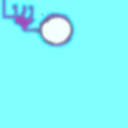
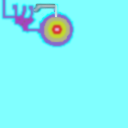
Added Watch Out Platoue

diff --git a/Escape/game/game.cpp b/Escape/game/game.cpp
@@ -25,7 +25,7 @@ Game::Game(GLuint pWidth, GLuint pHeight, const char* pWindowTitle)
 	
 
 	// Create a GLFWwindow object that we can use for GLFW's functions
-	setWindow(glfwCreateWindow(getWidth(), getHeight(), getTitle(),glfwGetPrimaryMonitor(),NULL));
+	setWindow(glfwCreateWindow(getWidth(), getHeight(), getTitle(), glfwGetPrimaryMonitor(),NULL));
 	glfwMakeContextCurrent(this->getWindow());
 
 
@@ -53,7 +53,11 @@ Game::Game(GLuint pWidth, GLuint pHeight, const char* pWindowTitle)
 	glEnable(GL_CULL_FACE);
 	glCullFace(GL_BACK);
 
-	mPlayer = new Player(glm::vec3(78, 0, 61), 1, "Hans Dieter", this->getHeight(), this->getWidth());
+	glm::vec3 Origin(0);
+	glm::vec3 Sea(78, 0, 61);
+	glm::vec3 WayToLookOut(63, 0, 23);
+
+	mPlayer = new Player(WayToLookOut, 1, "Hans Dieter", this->getHeight(), this->getWidth());
 
 	mSkybox = new Skybox();
 
